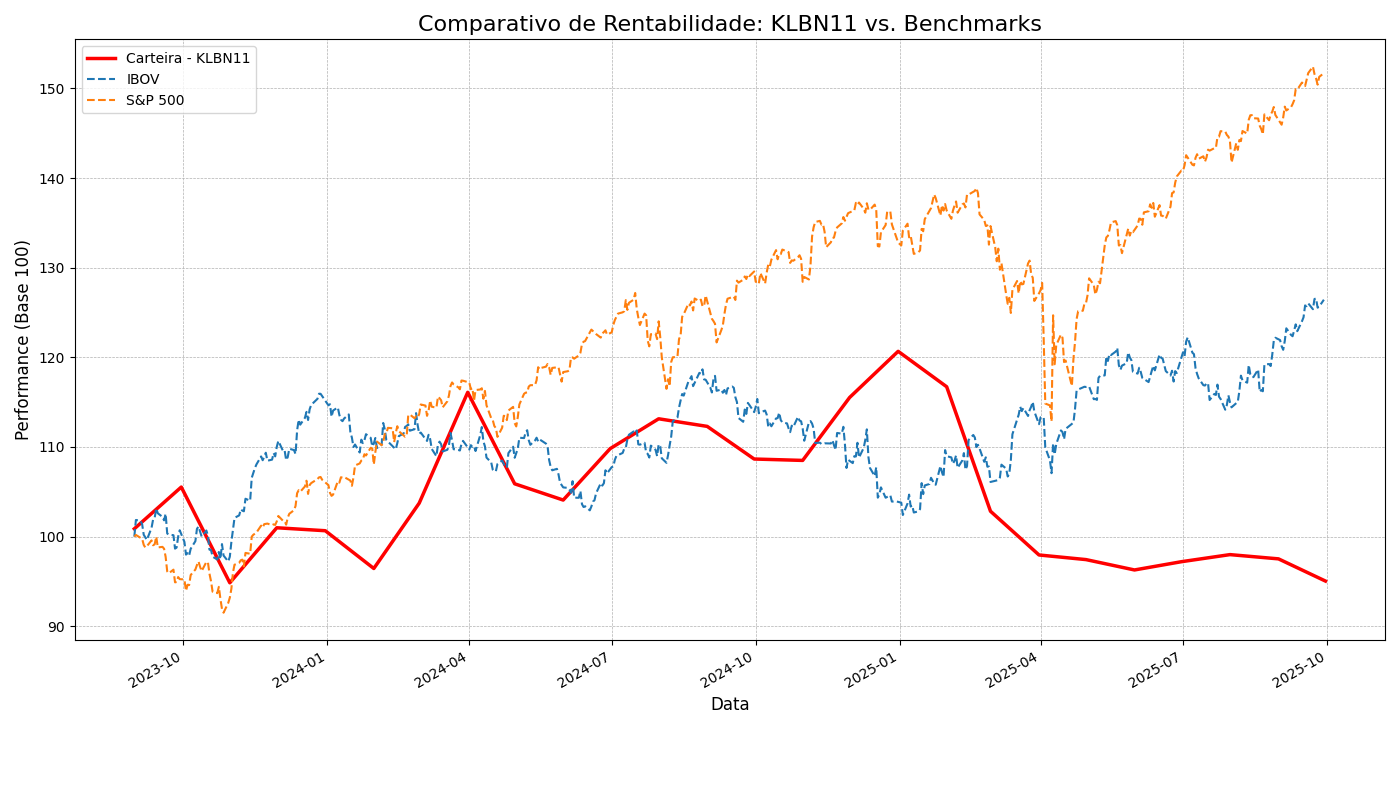
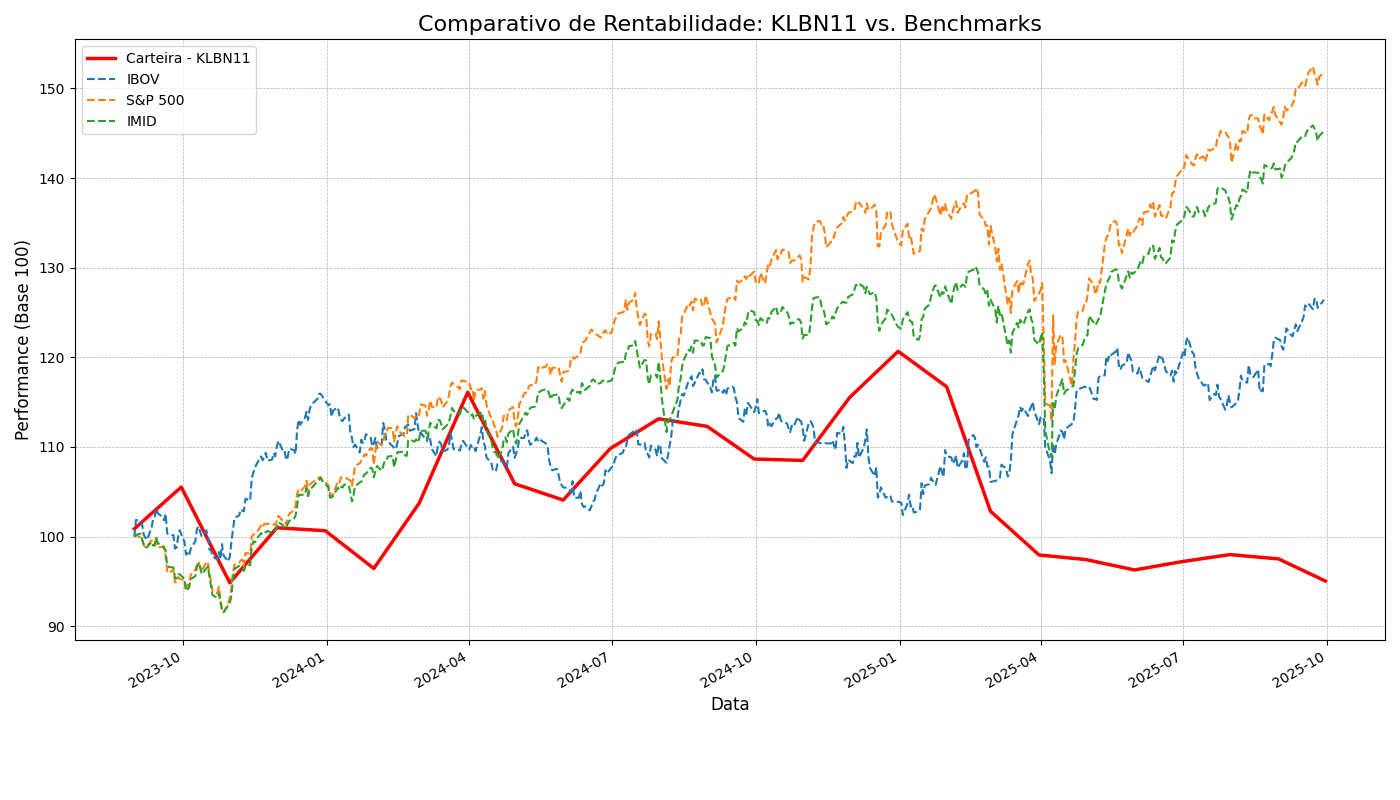
incluido imid no comparativo

diff --git a/dlombello/main.py b/dlombello/main.py
@@ -344,7 +344,8 @@ def main():
             # Define os benchmarks para comparação
             benchmarks = {
                 'IBOV': '^BVSP',
-                'S&P 500': 'SPY'
+                'S&P 500': 'SPY',
+                'IMID': 'IMID.L'
             }
             
             # Define o período para a busca dos benchmarks
